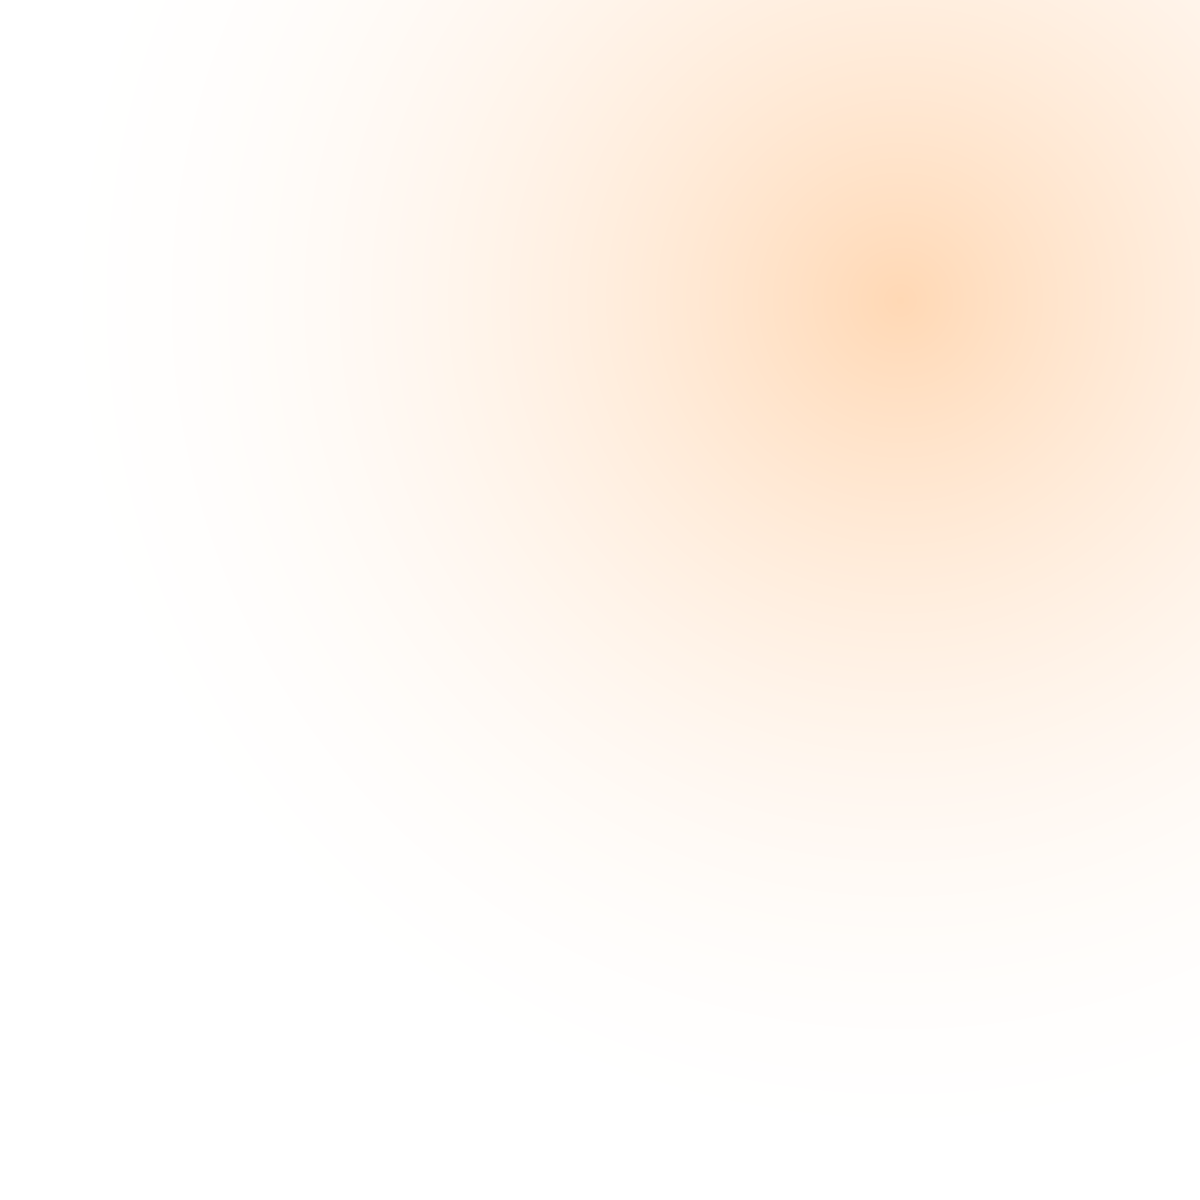
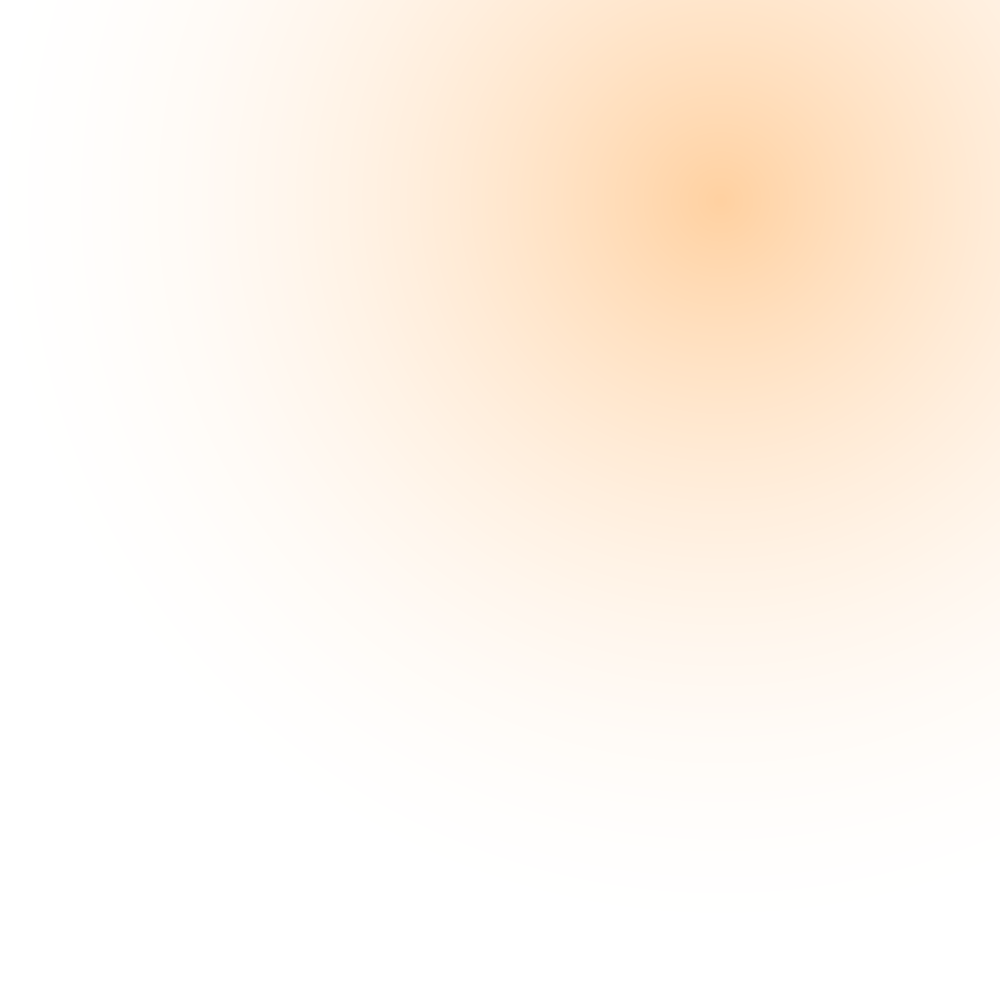
v1.1.23

Changed region(s): [[0.62, 0.062, 0.775, 0.217]]

diff --git a/client/src/index.css b/client/src/index.css
@@ -96,7 +96,7 @@
 :root[data-theme="day"] {
   --bg-app:
     var(--bg-texture),
-    linear-gradient(180deg, #f4efe6 0%, #e8dfd2 70%);
+    linear-gradient(180deg, #e8d7c6 0%, #c2a68b 70%);
   --bg-surface: #fbf8f2;
   --bg-surface-muted: #efe6d8;
   --bg-card: #ffffff;
@@ -165,11 +165,17 @@
 
 :root[data-contrast="light"] {
   --bg-light: url("/backgrounds/light-morning.png");
+  --bg-surface: #f1e3d4;
+  --bg-surface-muted: #e4d1bf;
+  --bg-card: #f7ebdd;
+  --bg-popup: #f1e3d4;
   --text-primary: #2b2119;
   --text-secondary: #5e4f42;
   --text-muted: #84705c;
   --action-primary: #f59c3f;
   --action-primary-text: #2b1f16;
+  --action-secondary: #e7d6c3;
+  --action-secondary-text: #2b2119;
   --border-subtle: rgba(58, 43, 33, 0.18);
   --foreground: 30 18% 16%;
   --muted-foreground: 30 12% 38%;
@@ -180,11 +186,17 @@
 
 :root[data-contrast="mid"] {
   --bg-light: url("/backgrounds/light-midday.png");
+  --bg-surface: #ecdcca;
+  --bg-surface-muted: #d8c4af;
+  --bg-card: #f6ebdd;
+  --bg-popup: #ecdcca;
   --text-primary: #2f241b;
   --text-secondary: #5f4e3e;
   --text-muted: #8a7562;
   --action-primary: #e57f1e;
   --action-primary-text: #241a12;
+  --action-secondary: #d9c4af;
+  --action-secondary-text: #2f241b;
   --border-subtle: rgba(47, 36, 27, 0.18);
   --foreground: 28 18% 17%;
   --muted-foreground: 28 12% 38%;
@@ -195,11 +207,17 @@
 
 :root[data-contrast="dark"] {
   --bg-light: url("/backgrounds/light-night.png");
+  --bg-surface: #231f1b;
+  --bg-surface-muted: #1e1a17;
+  --bg-card: #f3ede3;
+  --bg-popup: #231f1b;
   --text-primary: #ede6dc;
   --text-secondary: #cbb8a4;
   --text-muted: #9f8e7c;
   --action-primary: #f38b2a;
   --action-primary-text: #1c1a18;
+  --action-secondary: #2a2520;
+  --action-secondary-text: #ede6dc;
   --border-subtle: rgba(255, 255, 255, 0.1);
   --foreground: 33 38% 90%;
   --muted-foreground: 31 27% 72%;
@@ -253,7 +271,10 @@
   }
 
   body {
-    background-image: var(--bg-layered);
+    background-image:
+      url("/backgrounds/noise.png"),
+      url("/backgrounds/light-night.png"),
+      #1c1a18;
     background-repeat: repeat, no-repeat, no-repeat;
     background-size: 512px 512px, 1200px 1200px, cover;
     background-position: top left, center, center;
@@ -268,7 +289,10 @@
   .page {
     width: 100%;
     min-height: 100vh;
-    background-image: var(--bg-layered);
+    background-image:
+      url("/backgrounds/noise.png"),
+      url("/backgrounds/light-night.png"),
+      #1c1a18;
     background-repeat: repeat, no-repeat, no-repeat;
     background-size: 512px 512px, 1200px 1200px, cover;
     background-position: top left, center, center;
@@ -408,7 +432,10 @@
 
   /* Ember-lit app background */
   .app-background {
-    background-image: var(--bg-layered);
+    background-image:
+      url("/backgrounds/noise.png"),
+      url("/backgrounds/light-night.png"),
+      #1c1a18;
     background-repeat: repeat, no-repeat, no-repeat;
     background-size: 512px 512px, 1200px 1200px, cover;
     background-position: top left, center, center;
@@ -417,7 +444,10 @@
 
   /* Cinematic glow background */
   .animated-gradient-bg {
-    background-image: var(--bg-layered);
+    background-image:
+      url("/backgrounds/noise.png"),
+      url("/backgrounds/light-night.png"),
+      #1c1a18;
     background-repeat: repeat, no-repeat, no-repeat;
     background-size: 512px 512px, 1200px 1200px, cover;
     background-position: top left, center, center;

diff --git a/client/src/App.tsx b/client/src/App.tsx
@@ -328,90 +328,9 @@ function Router() {
 
 function App() {
   useEffect(() => {
-    const getHourInTimezone = (timezone: string) => {
-      const formatter = new Intl.DateTimeFormat("en-US", {
-        hour: "numeric",
-        hour12: false,
-        timeZone: timezone,
-      });
-      return Number(formatter.format(new Date()));
-    };
-
-    const applyTheme = () => {
-      const manual = document.documentElement.dataset.themeOverride;
-      if (manual) {
-        document.documentElement.dataset.theme = manual;
-        document.documentElement.dataset.contrast =
-          manual === "day" ? "light" : "dark";
-        document.documentElement.style.removeProperty("--bg-app-dynamic");
-        return;
-      }
-      const timezone =
-        Intl.DateTimeFormat().resolvedOptions().timeZone || "UTC";
-      const hour = getHourInTimezone(timezone);
-
-      const palettes = {
-        morning: { top: [233, 214, 194], bottom: [200, 171, 144] },
-        midday: { top: [131, 120, 109], bottom: [114, 99, 84] },
-        night: { top: [28, 26, 24], bottom: [28, 26, 24] },
-      };
-
-      const lerp = (a: number, b: number, t: number) =>
-        Math.round(a + (b - a) * t);
-
-      const lerpColor = (c1: number[], c2: number[], t: number) =>
-        `rgb(${lerp(c1[0], c2[0], t)}, ${lerp(c1[1], c2[1], t)}, ${lerp(
-          c1[2],
-          c2[2],
-          t
-        )})`;
-
-      const getProgress = (h: number, start: number, end: number) =>
-        Math.min(1, Math.max(0, (h - start) / (end - start)));
-
-      let from = palettes.morning;
-      let to = palettes.midday;
-      let t = 0;
-
-      if (hour < 12) {
-        from = palettes.morning;
-        to = palettes.midday;
-        t = getProgress(hour, 7, 12);
-      } else if (hour < 21) {
-        from = palettes.midday;
-        to = palettes.night;
-        t = getProgress(hour, 12, 21);
-      } else {
-        from = palettes.night;
-        to = palettes.night;
-        t = 1;
-      }
-
-      const bgTop = lerpColor(from.top, to.top, t);
-      const bgBottom = lerpColor(from.bottom, to.bottom, t);
-      document.documentElement.style.setProperty(
-        "--bg-app-dynamic",
-        `linear-gradient(180deg, ${bgTop} 0%, ${bgBottom} 70%)`
-      );
-
-      const contrast =
-        hour >= 7 && hour < 11 ? "light" : hour >= 11 && hour < 17 ? "mid" : "dark";
-      document.documentElement.dataset.contrast = contrast;
-      document.documentElement.dataset.theme = "evening";
-    };
-
-    const scheduleNextUpdate = () => {
-      const now = new Date();
-      const msUntilNextHour =
-        (60 - now.getMinutes()) * 60 * 1000 - now.getSeconds() * 1000;
-      window.setTimeout(() => {
-        applyTheme();
-        scheduleNextUpdate();
-      }, Math.max(msUntilNextHour, 1000));
-    };
-
-    applyTheme();
-    scheduleNextUpdate();
+    document.documentElement.dataset.theme = "overnight";
+    document.documentElement.dataset.contrast = "dark";
+    document.documentElement.style.removeProperty("--bg-app-dynamic");
   }, []);
 
   return (
@@ -449,6 +368,7 @@ function App() {
 function ThemePreviewToggle() {
   const { user } = useAuth();
   if (user?.userType !== "super_admin") return null;
+  return null;
 
   const applyAutoTheme = () => {
     const getHourInTimezone = (timezone: string) => {
